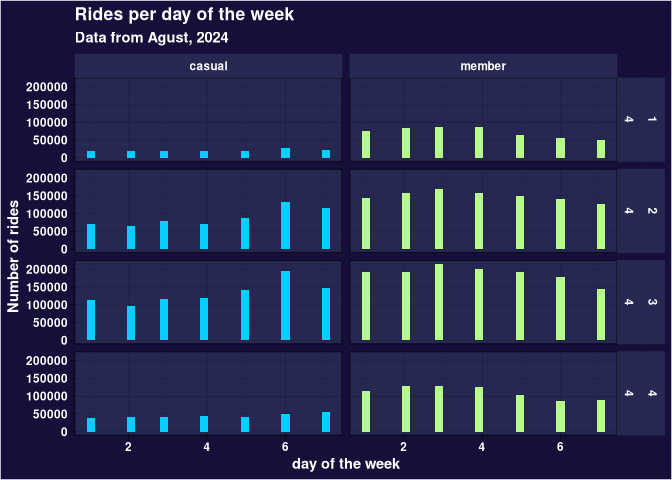
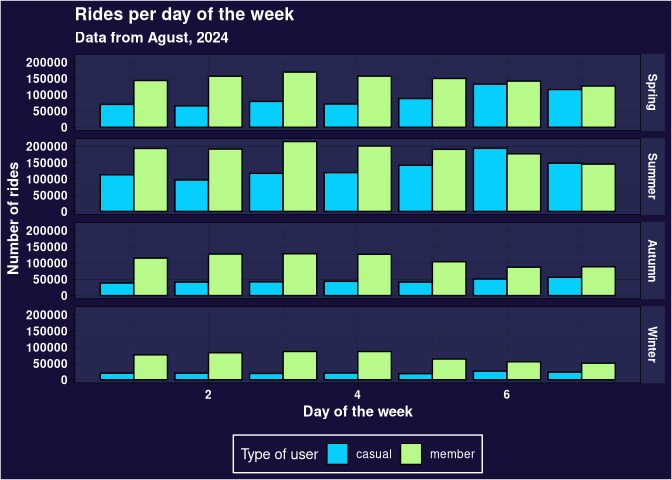
Modified quarters graph to improve readability, small changes to nix file, and update render of project to match current state

diff --git a/README.md b/README.md
@@ -610,7 +610,7 @@ df |>
   )
 ```
 
-![](README_files/figure-commonmark/unnamed-chunk-13-1.png)
+![](README_files/figure-commonmark/Distribution%20of%20rides%20duration,%20per%20bike%20type-1.png)
 
 On average, casual users tend to use the service for longer periods of
 time, but they have less rides overall. Since casual users pay for each
@@ -620,23 +620,45 @@ the other hand, we may have to further explore this difference in usage.
 Some other interesting visualization is the next one:
 
 ``` r
+seasons <- c("1" = "Spring", "2" = "Summer", "3" = "Autumn", "4" = "Winter")
+
 df |>
   slice_min(n = as.integer(dim(df)[1] * 0.99), order_by = ride_duration) |>
   ggplot() +
   aes(x = wday(started_at, week_start = 1), fill = member_casual) +
-  geom_histogram(show.legend = FALSE) +
-  facet_grid(cols = vars(member_casual), rows = vars(quarter(started_at), fiscal_start = 4)) +
+  geom_histogram(
+    stat = "count",
+    position = position_dodge(),
+    color = "black"
+  ) +
+  facet_grid(
+    rows = vars(quarter(started_at, fiscal_start = 4)),
+    labeller = labeller(.default = seasons)
+  ) +
   labs(
-    x="day of the week",
+    x = "Day of the week",
     title = "Rides per day of the week",
     subtitle = "Data from Agust, 2024",
-    y = "Number of rides"
+    y = "Number of rides",
+    fill = "Type of user",
   ) +
   scale_fill_manual(values = c("#06CEFD", "#B7FA8A")) +
-  global_theme()
+  global_theme() +
+  theme(
+    legend.background = element_rect(fill = "#150F3A", color = "white"),
+    legend.text = element_text(color = "white"),
+    legend.title = element_text(color = "white"),
+    legend.position = "bottom",
+  )
 ```
 
-![](README_files/figure-commonmark/unnamed-chunk-14-1.png)
+![](README_files/figure-commonmark/Rides%20per%20day%20of%20the%20week%20per%20season-1.png)
+
+``` r
+c(1)
+```
+
+    [1] 1
 
 ``` r
 # p  <- ggplot(data = visual) + aes(x = member_casual, y= avg_time_used) + geom_col()
